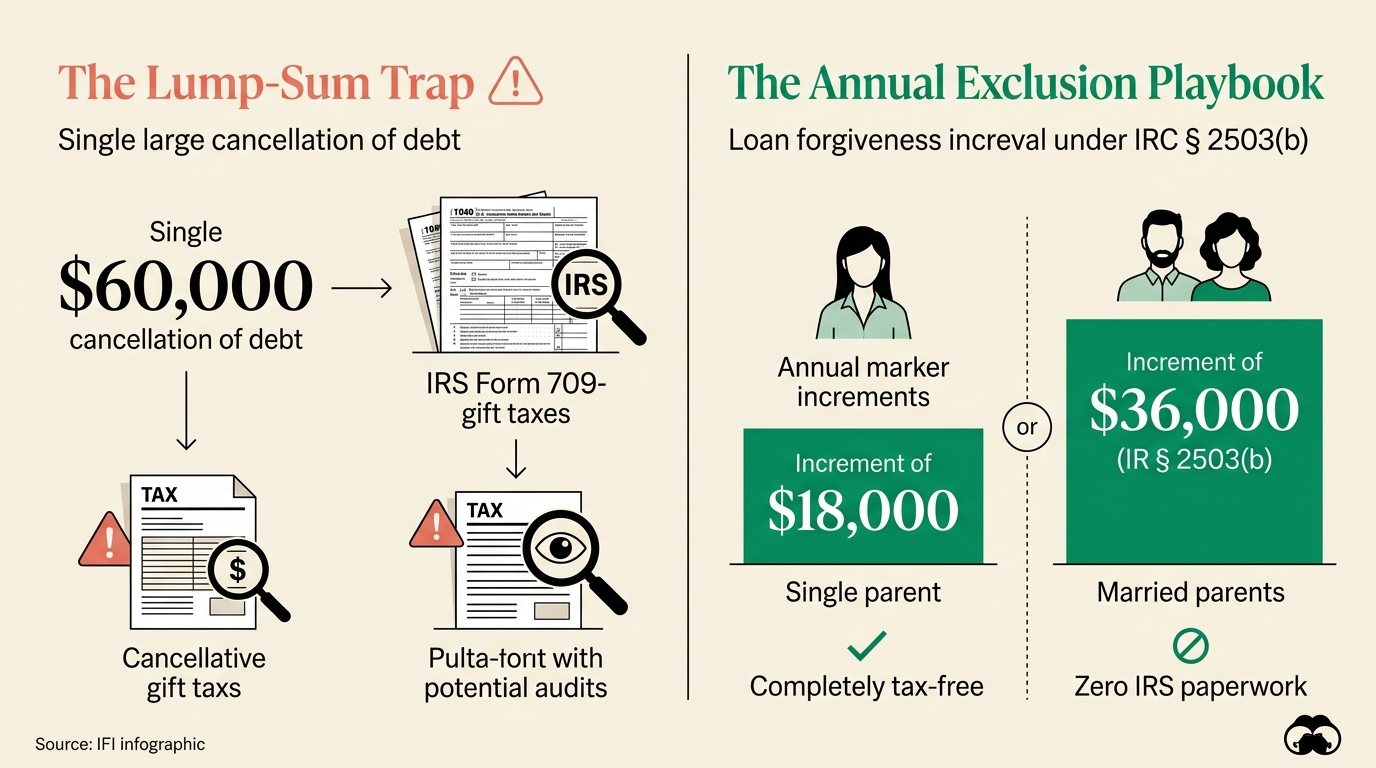
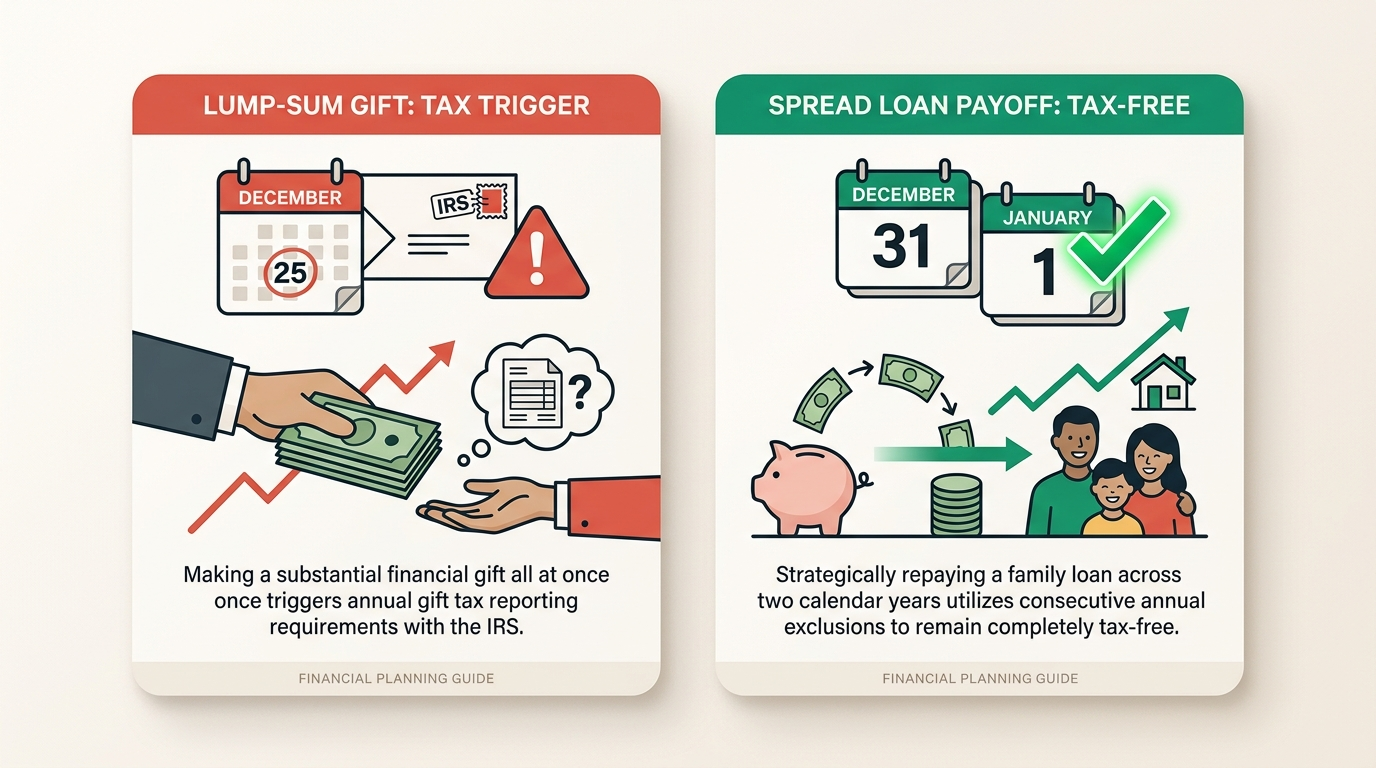
feat(growth): add in-dashboard copy editor, status filter tabs, and clean comparison graphic

diff --git a/src/components/growth/article-review-modal.tsx b/src/components/growth/article-review-modal.tsx
@@ -17,6 +17,7 @@ import {
   ShieldCheck,
   Calendar,
   Layers,
+  Edit3,
 } from 'lucide-react';
 import { StagedArticle } from '@/lib/growth-content';
 
@@ -25,6 +26,7 @@ interface ArticleReviewModalProps {
   onClose: () => void;
   onPublish: (slug: string) => Promise<void>;
   onValidate: (slug: string) => Promise<void>;
+  onUpdate?: (updated: StagedArticle) => void;
   isLoading: boolean;
 }
 
@@ -33,10 +35,55 @@ export default function ArticleReviewModal({
   onClose,
   onPublish,
   onValidate,
+  onUpdate,
   isLoading,
 }: ArticleReviewModalProps) {
-  const [activeTab, setActiveTab] = useState<'preview' | 'audit' | 'distribution' | 'raw'>('preview');
+  const [currentArticle, setCurrentArticle] = useState<StagedArticle>(article);
+  const [activeTab, setActiveTab] = useState<'preview' | 'audit' | 'edit' | 'distribution' | 'raw'>('preview');
   const [copiedField, setCopiedField] = useState<string | null>(null);
+
+  // In-Dashboard Editing State
+  const [editTitle, setEditTitle] = useState(article.title);
+  const [editDescription, setEditDescription] = useState(article.description);
+  const [editKeyword, setEditKeyword] = useState(article.targetKeyword);
+  const [editMarkdown, setEditMarkdown] = useState(article.contentMarkdown);
+  const [isSaving, setIsSaving] = useState(false);
+  const [saveMessage, setSaveMessage] = useState<string | null>(null);
+
+  async function handleSaveEdits(e: React.FormEvent) {
+    e.preventDefault();
+    setIsSaving(true);
+    try {
+      const res = await fetch('/api/admin/growth/content', {
+        method: 'POST',
+        headers: { 'Content-Type': 'application/json' },
+        body: JSON.stringify({
+          action: 'update',
+          slug: currentArticle.slug,
+          title: editTitle,
+          description: editDescription,
+          targetKeyword: editKeyword,
+          contentMarkdown: editMarkdown,
+        }),
+      });
+      if (res.ok) {
+        const data = await res.json();
+        if (data.article) {
+          setCurrentArticle(data.article);
+          if (onUpdate) onUpdate(data.article);
+        }
+        setSaveMessage('Saved changes! Switched back to preview.');
+        setTimeout(() => {
+          setSaveMessage(null);
+          setActiveTab('preview');
+        }, 1200);
+      }
+    } catch (err) {
+      console.error('Failed to save edits:', err);
+    } finally {
+      setIsSaving(false);
+    }
+  }
 
   function copyToClipboard(text: string, fieldId: string) {
     navigator.clipboard.writeText(text);
@@ -261,6 +308,18 @@ export default function ArticleReviewModal({
 
           <button
             type="button"
+            onClick={() => setActiveTab('edit')}
+            className={`pb-3 px-3 border-b-2 flex items-center gap-1.5 transition-all ${
+              activeTab === 'edit'
+                ? 'border-teal-400 text-teal-300'
+                : 'border-transparent text-slate-400 hover:text-white'
+            }`}
+          >
+            <Edit3 className="w-4 h-4" /> Edit &amp; Tweak Copy
+          </button>
+
+          <button
+            type="button"
             onClick={() => setActiveTab('distribution')}
             className={`pb-3 px-3 border-b-2 flex items-center gap-1.5 transition-all ${
               activeTab === 'distribution'
@@ -355,6 +414,112 @@ export default function ArticleReviewModal({
                 </ul>
               </div>
             </div>
+          )}
+
+          {/* TAB: EDIT & TWEAK COPY */}
+          {activeTab === 'edit' && (
+            <form onSubmit={handleSaveEdits} className="space-y-5 max-w-2xl mx-auto">
+              <div className="bg-teal-950/30 border border-teal-500/30 p-4 rounded-2xl flex flex-col sm:flex-row sm:items-center justify-between gap-3">
+                <div>
+                  <h4 className="text-xs font-bold uppercase tracking-wider text-teal-300 flex items-center gap-1.5">
+                    <Edit3 className="w-4 h-4" /> In-Dashboard Copy Editor
+                  </h4>
+                  <p className="text-xs text-slate-300 mt-0.5">
+                    Tweak headings, fix wording, or edit paragraphs. Save changes to update the visual preview instantly.
+                  </p>
+                </div>
+                <button
+                  type="submit"
+                  disabled={isSaving}
+                  className="bg-teal-500 hover:bg-teal-400 text-slate-950 font-black text-xs px-4 py-2 rounded-xl transition-all shadow-md shadow-teal-500/20 shrink-0"
+                >
+                  {isSaving ? 'Saving...' : 'Save Changes'}
+                </button>
+              </div>
+
+              {saveMessage && (
+                <div className="bg-emerald-950/60 border border-emerald-500/40 rounded-xl p-3 text-xs font-bold text-emerald-300 flex items-center gap-2">
+                  <CheckCircle2 className="w-4 h-4 text-emerald-400" />
+                  {saveMessage}
+                </div>
+              )}
+
+              <div className="space-y-1.5">
+                <label className="block text-xs font-bold uppercase tracking-wider text-slate-400">
+                  Article Title
+                </label>
+                <input
+                  type="text"
+                  value={editTitle}
+                  onChange={(e) => setEditTitle(e.target.value)}
+                  required
+                  className="w-full px-4 py-2.5 rounded-xl bg-slate-950 border border-white/10 text-white text-sm focus:outline-none focus:border-teal-400 font-bold"
+                />
+              </div>
+
+              <div className="grid grid-cols-1 sm:grid-cols-2 gap-4">
+                <div className="space-y-1.5">
+                  <label className="block text-xs font-bold uppercase tracking-wider text-orange-400">
+                    Target SEO Keyword
+                  </label>
+                  <input
+                    type="text"
+                    value={editKeyword}
+                    onChange={(e) => setEditKeyword(e.target.value)}
+                    required
+                    className="w-full px-4 py-2.5 rounded-xl bg-slate-950 border border-white/10 text-white text-xs font-mono focus:outline-none focus:border-orange-500"
+                  />
+                </div>
+
+                <div className="space-y-1.5">
+                  <label className="block text-xs font-bold uppercase tracking-wider text-slate-400">
+                    Meta Description (Search Snippet)
+                  </label>
+                  <input
+                    type="text"
+                    value={editDescription}
+                    onChange={(e) => setEditDescription(e.target.value)}
+                    required
+                    className="w-full px-4 py-2.5 rounded-xl bg-slate-950 border border-white/10 text-white text-xs focus:outline-none focus:border-teal-400"
+                  />
+                </div>
+              </div>
+
+              <div className="space-y-1.5">
+                <div className="flex items-center justify-between">
+                  <label className="block text-xs font-bold uppercase tracking-wider text-slate-400">
+                    Article Body (Markdown)
+                  </label>
+                  <span className="text-[10px] text-slate-500">
+                    Supports **bold**, headings, images, and lists
+                  </span>
+                </div>
+                <textarea
+                  rows={14}
+                  value={editMarkdown}
+                  onChange={(e) => setEditMarkdown(e.target.value)}
+                  required
+                  className="w-full px-4 py-3 rounded-xl bg-slate-950 border border-white/10 text-slate-200 text-xs font-mono leading-relaxed focus:outline-none focus:border-teal-400"
+                />
+              </div>
+
+              <div className="flex items-center justify-end gap-3 pt-2">
+                <button
+                  type="button"
+                  onClick={() => setActiveTab('preview')}
+                  className="px-4 py-2 rounded-xl text-xs font-bold text-slate-400 hover:text-white"
+                >
+                  Cancel
+                </button>
+                <button
+                  type="submit"
+                  disabled={isSaving}
+                  className="bg-teal-500 hover:bg-teal-400 text-slate-950 font-black text-xs px-5 py-2.5 rounded-xl transition-all shadow-md shadow-teal-500/20"
+                >
+                  {isSaving ? 'Saving Changes...' : 'Save Changes & Update Preview'}
+                </button>
+              </div>
+            </form>
           )}
 
           {/* TAB 3: DISTRIBUTION & SOCIAL CHANNELS */}

diff --git a/src/app/admin/growth/page.tsx b/src/app/admin/growth/page.tsx
@@ -60,6 +60,7 @@ export default function GrowthHubDashboard() {
   // SEO Content Flywheel State (Module B)
   const [articles, setArticles] = useState<StagedArticle[]>([]);
   const [inspectingArticle, setInspectingArticle] = useState<StagedArticle | null>(null);
+  const [contentFilter, setContentFilter] = useState<'awaiting' | 'published' | 'all'>('awaiting');
   const [contentLoadingId, setContentLoadingId] = useState<string | null>(null);
   const [contentFeedback, setContentFeedback] = useState<string | null>(null);
 
@@ -710,13 +711,66 @@ export default function GrowthHubDashboard() {
                 </div>
               </div>
 
+              {/* Status Filter Pills */}
+              {articles.length > 0 && (
+                <div className="flex items-center gap-2 pt-1 pb-1">
+                  <button
+                    type="button"
+                    onClick={() => setContentFilter('awaiting')}
+                    className={`px-3 py-1.5 rounded-xl text-xs font-bold transition-all flex items-center gap-1.5 ${
+                      contentFilter === 'awaiting'
+                        ? 'bg-orange-500/20 text-orange-300 border border-orange-500/40 shadow-sm'
+                        : 'bg-white/5 text-slate-400 hover:text-white border border-white/5'
+                    }`}
+                  >
+                    <span>Awaiting Your Review</span>
+                    <span className="text-[10px] px-1.5 py-0.2 rounded-full bg-black/40 font-mono">
+                      {articles.filter((a) => a.status === 'Validated' || a.status === 'Draft').length}
+                    </span>
+                  </button>
+
+                  <button
+                    type="button"
+                    onClick={() => setContentFilter('published')}
+                    className={`px-3 py-1.5 rounded-xl text-xs font-bold transition-all flex items-center gap-1.5 ${
+                      contentFilter === 'published'
+                        ? 'bg-emerald-500/20 text-emerald-300 border border-emerald-500/40 shadow-sm'
+                        : 'bg-white/5 text-slate-400 hover:text-white border border-white/5'
+                    }`}
+                  >
+                    <span>Published Archive</span>
+                    <span className="text-[10px] px-1.5 py-0.2 rounded-full bg-black/40 font-mono">
+                      {articles.filter((a) => a.status === 'Published').length}
+                    </span>
+                  </button>
+
+                  <button
+                    type="button"
+                    onClick={() => setContentFilter('all')}
+                    className={`px-3 py-1.5 rounded-xl text-xs font-bold transition-all flex items-center gap-1.5 ${
+                      contentFilter === 'all'
+                        ? 'bg-teal-500/20 text-teal-300 border border-teal-500/40 shadow-sm'
+                        : 'bg-white/5 text-slate-400 hover:text-white border border-white/5'
+                    }`}
+                  >
+                    <span>All ({articles.length})</span>
+                  </button>
+                </div>
+              )}
+
               {articles.length === 0 ? (
                 <div className="p-8 text-center text-slate-400 text-sm bg-slate-950/50 rounded-2xl border border-white/5">
                   No staged articles found for this app yet.
                 </div>
               ) : (
                 <div className="space-y-4">
-                  {articles.map((art) => (
+                  {articles
+                    .filter((art) => {
+                      if (contentFilter === 'awaiting') return art.status === 'Validated' || art.status === 'Draft';
+                      if (contentFilter === 'published') return art.status === 'Published';
+                      return true;
+                    })
+                    .map((art) => (
                     <div
                       key={art.slug}
                       className="bg-slate-950/70 border border-white/10 rounded-2xl p-5 space-y-4 hover:border-teal-500/40 transition-all"
@@ -1213,6 +1267,12 @@ export default function GrowthHubDashboard() {
           onClose={() => setInspectingArticle(null)}
           onPublish={handlePublishContent}
           onValidate={handleValidateContent}
+          onUpdate={(updated) => {
+            setArticles((prev) =>
+              prev.map((a) => (a.slug === updated.slug ? updated : a))
+            );
+            setInspectingArticle(updated);
+          }}
           isLoading={contentLoadingId === inspectingArticle.slug}
         />
       )}

diff --git a/src/app/api/admin/growth/content/route.ts b/src/app/api/admin/growth/content/route.ts
@@ -3,6 +3,7 @@ import {
   getAllStagedArticles,
   validateStagedArticle,
   publishArticleToRepository,
+  updateStagedArticle,
 } from '@/lib/growth-content';
 
 export async function GET(request: Request) {
@@ -27,6 +28,22 @@ export async function POST(request: Request) {
         return NextResponse.json({ error: 'Article not found' }, { status: 404 });
       }
       return NextResponse.json({ success: true, ...result });
+    }
+
+    if (action === 'update') {
+      const { title, description, targetKeyword, contentMarkdown } = body;
+      const updated = updateStagedArticle(slug, {
+        title,
+        description,
+        targetKeyword,
+        contentMarkdown,
+      });
+      if (!updated) {
+        return NextResponse.json({ error: 'Article not found' }, { status: 404 });
+      }
+      // Re-run validation so audit badges stay accurate
+      const validated = validateStagedArticle(slug);
+      return NextResponse.json({ success: true, article: validated?.article || updated });
     }
 
     if (action === 'publish') {

diff --git a/src/lib/growth-content.ts b/src/lib/growth-content.ts
@@ -395,3 +395,23 @@ export function publishArticleToRepository(slug: string): { success: boolean; pa
   globalContentStore.__stagedArticles = [...articles];
   return { success: true, pathWritten, article: updated };
 }
+
+export function updateStagedArticle(
+  slug: string,
+  updates: Partial<Pick<StagedArticle, 'title' | 'description' | 'targetKeyword' | 'contentMarkdown'>>
+): StagedArticle | null {
+  const articles = globalContentStore.__stagedArticles || [];
+  const index = articles.findIndex((a) => a.slug === slug);
+  if (index === -1) return null;
+
+  const current = articles[index];
+  const updated: StagedArticle = {
+    ...current,
+    ...updates,
+  };
+
+  articles[index] = updated;
+  globalContentStore.__stagedArticles = [...articles];
+  return updated;
+}
+
